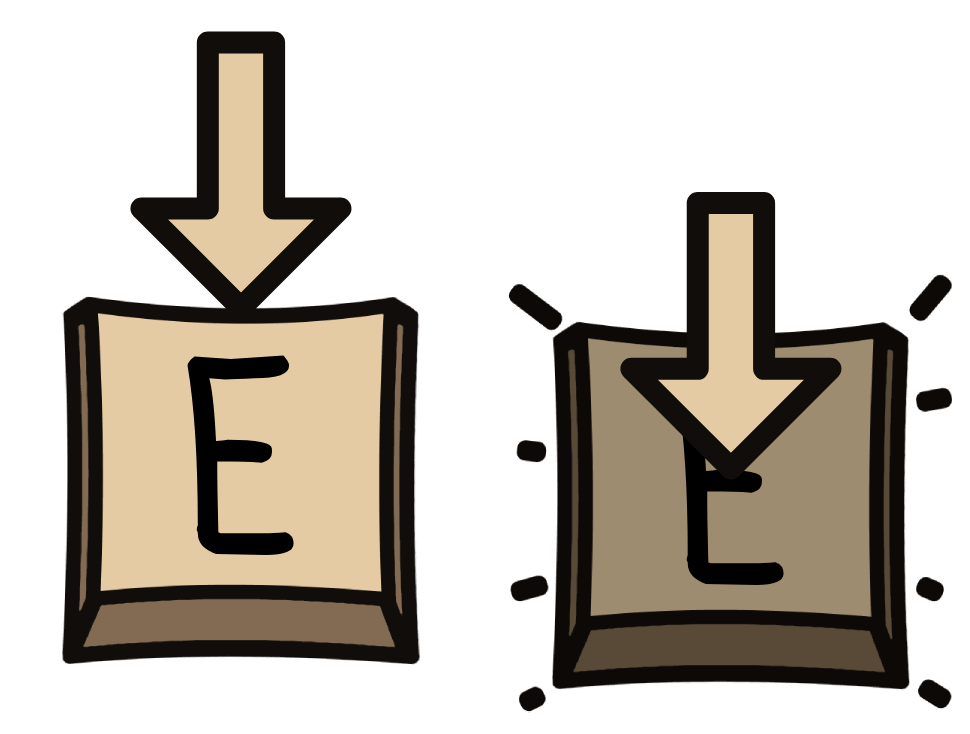
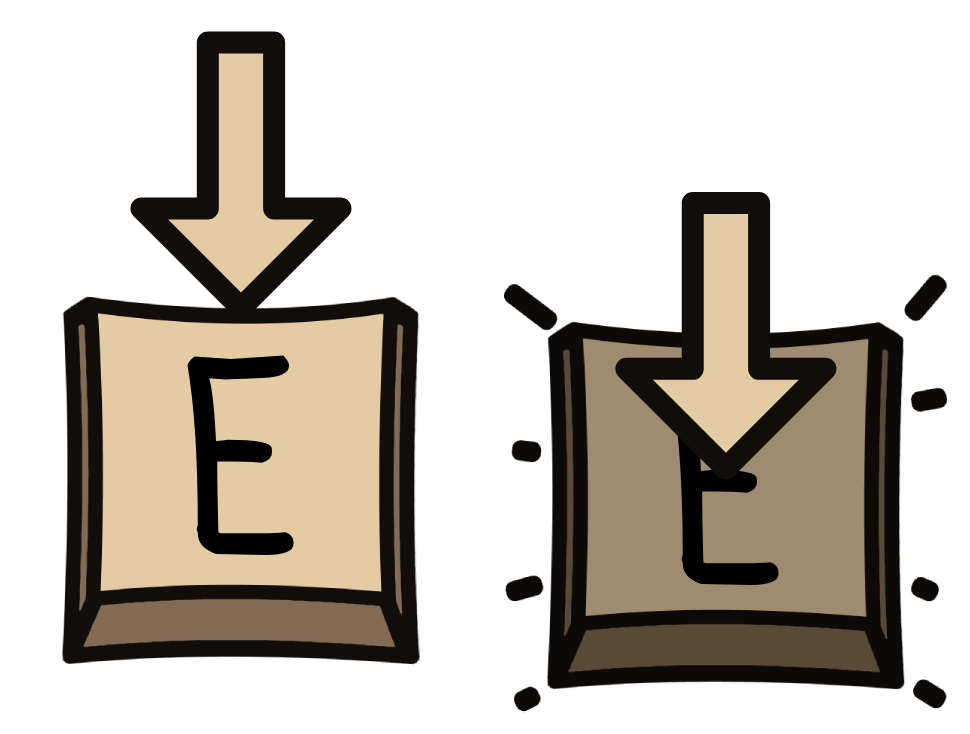
fixed pressE animation

diff --git a/Game/Source/Scene.cpp b/Game/Source/Scene.cpp
@@ -129,9 +129,10 @@ bool Scene::Start()
 	ropeSpeedLimit = 550;
 
 	ropeX = -app->render->camera.x + 1078;
-	ropeY = -app->render->camera.y + 49;
+	ropeY = -app->render->camera.y;
 
 	ropeWin = false;
+	minigameActive = false;
 
 	return true;
 }
@@ -221,11 +222,21 @@ bool Scene::Update(float dt)
 	app->map->Draw();
 
 
-	// While playing the minigame, appear animation of press Key
-	// Draw is made on UIModule
-	UpdateRopeMinigame(dt);
-	pressKeyAnim.Update();
-	keyRect = pressKeyAnim.GetCurrentFrame();
+	if (app->input->GetKey(SDL_SCANCODE_M) == KEY_DOWN)
+	{
+		if (minigameActive) minigameActive = false;
+		else minigameActive = true;
+	}
+	if (minigameActive)
+	{
+		player->movementRestringed = true;
+		// While playing the minigame, appear animation of press Key
+		// Draw is made on UIModule
+		UpdateRopeMinigame(dt);
+		pressKeyAnim.Update();
+		keyRect = pressKeyAnim.GetCurrentFrame();
+	}
+	
 
 
 	//int mouseX, mouseY;
@@ -873,7 +884,7 @@ void Scene::UpdateRopeMinigame(float dt)
 
 		// update rope position
 		ropeX = -app->render->camera.x + 1078;
-		ropeY = (-app->render->camera.y + 49) - ropeSpeed;
+		ropeY = -app->render->camera.y - ropeSpeed;
 
 		// If player reaches ropeSpeedLimt, stop the rope and trigger win consequence
 		if (ropeSpeed >= ropeSpeedLimit || app->input->GetKey(SDL_SCANCODE_Y) == KEY_DOWN)
@@ -889,7 +900,7 @@ void Scene::UpdateRopeMinigame(float dt)
 		// update rope position
 		ropeX = -app->render->camera.x + 1078;
 		// ropeY remains the same
-		ropeY = (-app->render->camera.y + 49) - ropeSpeedLimit;
+		ropeY = -app->render->camera.y - ropeSpeedLimit;
 	}
 
 	//std::cout << "Rope Speed " << ropeSpeed << std::endl;

diff --git a/Game/Source/UIModule.cpp b/Game/Source/UIModule.cpp
@@ -165,14 +165,23 @@ bool UIModule::PostUpdate()
 		}
 
 		// print UI that is on top of the SCENE SCREEN here
+		
 
-		if (app->scene->player->playerState == app->scene->player->PlayerState::MOVING)
+		//UI Minigame
+		// Condition for debug
+		if (app->scene->minigameActive)
 		{
-			app->render->DrawTexture(app->scene->questUiTexture, -app->render->camera.x + 30, -app->render->camera.y + 30, NULL);
+			app->render->DrawTexture(app->scene->ropeTexture, app->scene->ropeX, app->scene->ropeY, &app->scene->ropeRect);
+			app->render->DrawTexture(app->scene->pressKeyTexture, -app->render->camera.x + 400, -app->render->camera.y + 50, &app->scene->keyRect);
 		}
-
-		app->render->DrawTexture(app->scene->ropeTexture, app->scene->ropeX, app->scene->ropeY, &app->scene->ropeRect);
-		app->render->DrawTexture(app->scene->pressKeyTexture, -app->render->camera.x + 400, -app->render->camera.y + 50, &app->scene->keyRect);
+		else
+		{
+			// UI Quest
+			if (app->scene->player->playerState == app->scene->player->PlayerState::MOVING)
+			{
+				app->render->DrawTexture(app->scene->questUiTexture, -app->render->camera.x + 30, -app->render->camera.y + 30, NULL);
+			}
+		}
 
 	}
 

diff --git a/Game/Source/Scene.h b/Game/Source/Scene.h
@@ -135,6 +135,8 @@ private:
 public:
 	int ropeX;
 	int ropeY;
+	// Debug bool to activate minigame when desired
+	bool minigameActive;
 };
 
 #endif // __SCENE_H__
